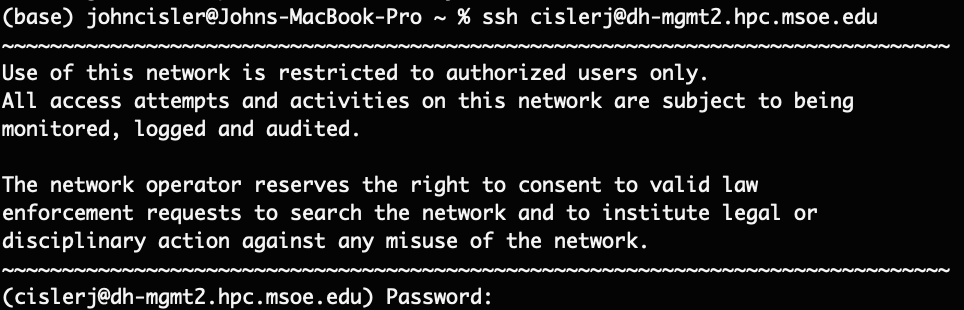
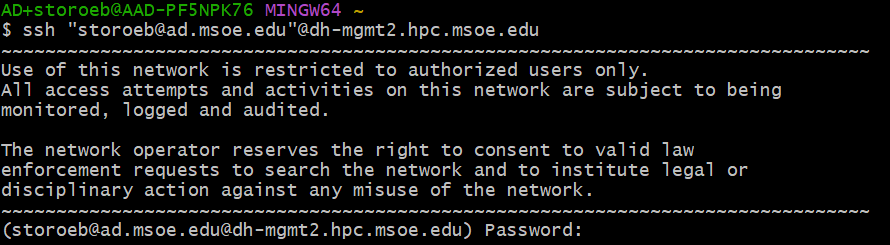
updating rosie articles

diff --git a/articles/Rosie/first-login/2-first-login.md b/articles/Rosie/first-login/2-first-login.md
@@ -50,10 +50,10 @@
 
 Logging into ROSIE for the first time is a bit of a pain and requires a few steps. This guide will walk you through the process of logging in for the first time and resetting your password.
 
-ROSIE can only be accessed through MSOE's campus network. If you are anywhere else, including the ITC, you need to use Global Protect, MSOE's VPN. This should come with your MSOE issued laptop, however if you would rather use a personal machine, you can install Global Protect [here](https://vpn.msoe.edu/global-protect/getsoftwarepage.esp). 
+ROSIE can only be accessed through MSOE's campus network. If you are anywhere else, including the ITC, you need to use Global Protect, MSOE's VPN. This should come with your MSOE issued laptop, however if you would rather use a personal machine, you can install Global Protect by reading [this](https://msoe-maic.com/library/?nav=Articles&article=global-protect) article.
 
 
-In order to log in to Rosie for the first time and reset your password, you must do so via SSH (Secure Shell)
+In order to log in to Rosie for the first time, you must do so via SSH (Secure Shell)
 SSH-ing to a computer cluster provides secure remote access, enabling efficient management, data analysis, and collaboration, crucial for scalable, high-performance computing and research in various fields.
 
 However, in order to use SSH, you will need an SSH client. Our tool of choice (that you'll later learn to use in-class as well) is Git.
@@ -76,9 +76,8 @@ In the following screens, accept all default selections
 
 Here's an overview of what we will be doing throughout the rest of the article:
 
-1. SSH into Rosie (ssh username@dh-mgmt2.hpc.msoe.edu)
-2. Enter the one time password that you recieved from Dr. Retert, then reenter this password
-3. Create a new password, then confirm this new password
+1. SSH into Rosie `ssh "username@ad.msoe.edu"@dh-mgmt2.hpc.msoe.edu`
+2. Enter your password.  
 
 ### 1. SSH Into ROSIE
 Once you have Git Bash open, type the following command, replacing username with your username (your email without the msoe.edu)
@@ -86,11 +85,11 @@ Look at the console entries next to the red stars *
 
 #### Using Git Bash (if on Windows)
 Open up the new program by typing git in your search bar, and clicking git bash. Then enter the following command, replacing username with your username (your email without the msoe.edu)
-'ssh username@dh-mgmt2.hpc.msoe.edu'
+`ssh "username@ad.msoe.edu"@dh-mgmt2.hpc.msoe.edu`
 
 #### Using Terminal (if on mac)
 Open up terminal if not already open and then enter the following command, replacing username with your username (your email without the msoe.edu)
-'ssh username@dh-mgmt2.hpc.msoe.edu'
+`ssh "username@ad.msoe.edu"@dh-mgmt2.hpc.msoe.edu`
 
 
 Regardless of your machine's OS, you should be shown something like the following, where you are prompted for your password: 
@@ -98,11 +97,8 @@ Regardless of your machine's OS, you should be shown something like the followin
 ![alt text](/images/article_content/ssh_1.png)
 
 
-### 2. Enter the One Time Password
-You should have recieved an email from Dr. Retert, our ROSIE admin, containing your one time password. It might have a subject along the lines of "Rosie Access Request." Enter this password into your terminal/git bash. As you're entering your password you will not see you password appear. That's OK, the characters will not appear due to security reasons, so please keep entering your password and hit enter when you're done. You will then be prompted to reenter your password, do so and hit enter again.
-
-### 3. Create a New Password & Confirm
-Perform the same steps as above, writing your new password instead. Again, you will not see your password appear as you type it in due to the security features on ROSIE. 
+### 2. Enter your password
+Rosie has switched to using your default msoe login. Enter this password into your terminal/git bash. As you're entering your password you will not see you password appear. That's OK, the characters will not appear due to security reasons, so please keep entering your password and hit enter when you're done.
 
 ## You're In!
 You should see the following screen! You're in! You can now use ROSIE!
@@ -110,11 +106,11 @@ You should see the following screen! You're in! You can now use ROSIE!
 ![alt text](/images/article_content/rosie_success.png)
 
 
-Once you see the message that it's creating directory 'home/username' followed by the big ROSIE, you're all set!
+Once you see the message that it's creating directory 'home/username@ad.msoe.edu' followed by the big ROSIE, you're all set!
 
 
 ## What To Do Moving Forward?
-Now, we aren't actually going to use this terminal interface to interact with ROSIE (that's gross 🤧); instead, we'll be using the online interface, using Jupyter Notebooks and starting up your own ROSIE instances. Find out more in the next article: Using The ROSIE Dev Page.
+Now, we aren't actually going to use this terminal interface to interact with ROSIE (that's gross 🤧); instead, we'll be using the online interface, using Jupyter Notebooks and starting up your own ROSIE instances. Find out more in the next article: [Using The ROSIE Dev Page](https://msoe-maic.com/library/?nav=Articles&article=3-rosie-web).
 
 
 

diff --git a/articles/Rosie/rosie-web/3-rosie-web.md b/articles/Rosie/rosie-web/3-rosie-web.md
@@ -60,16 +60,16 @@ You should see a page like this:
 Tab Overview
 From here, you will interact with ROSIE using the five tabs at the top of the screen, here's a breakdown of each:
 
-Files: This is how you both access your own files (Home Directory) and public files (Shared Data) on ROSIE. Whenever you create a new Jupyter notebook, it will go to your Home Directory by default; however, you do have the option of sharing it publicly. Types of files that are shared publicly include AI-Club workshops, class projects, AI-Club research projects, and more.
+**Files**: This is how you both access your own files (Home Directory) and public files (Shared Data) on ROSIE. Whenever you create a new Jupyter notebook, it will go to your Home Directory by default; however, you do have the option of sharing it publicly. Types of files that are shared publicly include AI-Club workshops, class projects, AI-Club research projects, and more.
 
-Jobs: This tab isn't used often by students, but it's where you can see the status of your jobs. If you're running a job, you can see the status of it here. If you're not running a job, you'll see a blank screen unless you view the status of all jobs. The Job Composer is used even less frequently -- do not use this screen unless you know what you are doing. This screen is NOT how you start up your own ROSIE instance for a Jupyter Notebook.
+**Jobs**: This tab isn't used often by students, but it's where you can see the status of your jobs. If you're running a job, you can see the status of it here. If you're not running a job, you'll see a blank screen unless you view the status of all jobs. The Job Composer is used even less frequently -- do not use this screen unless you know what you are doing. This screen is NOT how you start up your own ROSIE instance for a Jupyter Notebook.
 
-Interactive Apps: Lists the different kinds of apps that you can start an interactive session with ROSIE with. We'll talk about these more once we discuss Jupyter Notebooks & My Interactive Sessions.
+**Interactive Apps**: Lists the different kinds of apps that you can start an interactive session with ROSIE with. We'll talk about these more once we discuss Jupyter Notebooks & My Interactive Sessions.
 
-Clusters: Rosie Shell Access is an incredibly powerful and helpful tool. This is the command terminal you can use to move throughout all of ROSIE. You can use this to create new files, move files, delete files, and more. This is also where you can start up a job you made (using Slurm) without having to keep your laptop running for the job to continue going.
+**Clusters**: Rosie Shell Access is an incredibly powerful and helpful tool. This is the command terminal you can use to move throughout all of ROSIE. You can use this to create new files, move files, delete files, and more. This is also where you can start up a job you made (using Slurm) without having to keep your laptop running for the job to continue going.
 
 My Interactive Sessions: This is where you can start up your own ROSIE instance for a Jupyter Notebook. This is the most common way to use ROSIE, and we'll talk about this more in the next section.
 
 ## What's Next?
-If you're wanting to understand how you can immediately start coding and getting your projects to run on ROSIE, move onto Part 4: Starting Your First ROSIE Job.
+If you're wanting to understand how you can immediately start coding and getting your projects to run on ROSIE, move onto Part 4: [Starting Your First ROSIE Job](https://msoe-maic.com/library/?nav=Articles&article=4-first-rosie-job).
 

diff --git a/articles/Rosie/first-rosie-job/4-first-rosie-job.md b/articles/Rosie/first-rosie-job/4-first-rosie-job.md
@@ -54,11 +54,11 @@ To start a job, you should go to the My Interactive Sessions tab on the home-scr
 
 The section highlighted in blue is what we will be interacting with most of the time. The other sections are for more advanced users, and we will not be covering them in this article. However, here is a breakdown for the different types of Jupyter Notebooks:
 
-Jupyter Lab - Rosie: This will start a Jupyter LAB instance, not a Jupyter NOTEBOOK instance. Jupyter Lab is an integrated development environment (IDE) for interactive computing, offering a more versatile interface with tabs and extensions, while Jupyter Notebook provides a simpler, single-document interface for interactive code and data exploration. We use Jupyter Notebooks more frequently both in AI-Club and in industry, so we don't recommend this option.
+**Jupyter Lab - Rosie**: This will start a Jupyter LAB instance, not a Jupyter NOTEBOOK instance. Jupyter Lab is an integrated development environment (IDE) for interactive computing, offering a more versatile interface with tabs and extensions, while Jupyter Notebook provides a simpler, single-document interface for interactive code and data exploration. We use Jupyter Notebooks more frequently both in AI-Club and in industry, so we don't recommend this option.
 
-Jupyter Notebook - Containerized: This will start a Jupyter Notebook instance on one of the ROSIE teaching nodes. However, with this option, you have an additional dropdown for which container you would like to use with your ROSIE instance. A container is important because it comes with pre-installed packages that we will be commonly using throughout AI-Club. We recommend using this option.
+**Jupyter Notebook - Containerized**: This will start a Jupyter Notebook instance on one of the ROSIE teaching nodes. However, with this option, you have an additional dropdown for which container you would like to use with your ROSIE instance. A container is important because it comes with pre-installed packages that we will be commonly using throughout AI-Club. We recommend using this option.
 
-Jupyter Notebook - Rosie: Simply start up a Jupyter Notebook with your own packages on one of the ROSIE teaching nodes -- no container will be made and your Jupyter Notebook will be running directly on a ROSIE node. Use this option if you're having dependency issues.
+**Jupyter Notebook - Rosie**: Simply start up a Jupyter Notebook with your own packages on one of the ROSIE teaching nodes -- no container will be made and your Jupyter Notebook will be running directly on a ROSIE node. Use this option if you're having dependency issues.
 
 
 
@@ -124,7 +124,7 @@ However, we're talking about ROSIE Jupyter Notebooks, which have the exact-same 
 
 
 ## Running Command-Line Code in Jupyter Notebooks
-You can run command-line commands with ! before your code. For example, !ls will list all other files in the directory you put your Jupyter Notebook!
+You can run command-line commands with ! before your code. For example, `!ls` will list all other files in the directory you put your Jupyter Notebook!
 
 Another command is `!nvidia-smi`, which will list all the GPUs you currently have reserved for your current Jupyter Notebook. This is important because you can see if you have the correct number of GPUs reserved for your Jupyter Notebook. If you don't, you can go back to the ROSIE web portal and start a new Jupyter Notebook with the correct number of GPUs.
 

diff --git a/articles/Rosie/getting-rosie-access/1-getting-rosie-access.md b/articles/Rosie/getting-rosie-access/1-getting-rosie-access.md
@@ -61,30 +61,30 @@ Only those who have reason to use ROSIE can get access to its resources. As an M
 
 Towards the end of the form, there might be some questions that you might not know how to answer. Below are those questions and responses:
 
-Question 4: Please describe why you are requesting access to Rosie. In this description, please include why Rosie is needed beyond what your campus-issued laptop provides.
-Answer: AI-Club
+Question 4: `Please describe why you are requesting access to Rosie. In this description, please include why Rosie is needed beyond what your campus-issued laptop provides.`
+Answer: **AI-Club**
 
 
-Question 5: Please select all the tools you need to use for the request you are making.
-Answer: Select All Boxes (except for the last one)
+Question 5: `Please select all the tools you need to use for the request you are making.`
+Answer: **Select All Boxes (except for the last one)**
 
 
-Question 6: If you plan to use GPUs, please describe what acceleration libraries you need.
-Answer: tensorflow/keras
+Question 6: `If you plan to use GPUs, please describe what acceleration libraries you need.`
+Answer: **tensorflow/keras**
 
 
-Question 7: How much storage do you require (list MB, GB, TB)?
-Answer: 10GB
+Question 7: `How much storage do you require (list MB, GB, TB)?`
+Answer: **10GB**
 
 
-Question 8: Do you plan to use proprietary data with ROSIE?
-Answer: Leave blank (unless you have proprietary data)
+Question 8: `Do you plan to use proprietary data with ROSIE?`
+Answer: **Leave blank (unless you have proprietary data)**
 
 
 
-After requesting access you will likely get a response from Dr.Retert with instructions on logging in for the first time. If you are requesting access at the same time as many others, it might take a couple of days for a response. 
+After requesting access you will likely get a response from Dr. Retert with instructions on logging in for the first time. If you are requesting access at the same time as many others, it might take a couple of days for a response. 
 
 
 ## What's Next?
-Once you get his email, read the following article: First Log In
+Once you get his email, read the following article: [First Log In](https://msoe-maic.com/library/?nav=Articles&article=2-first-login)
 

diff --git a/articles/Rosie/rosie-terminal/5-rosie-terminal.md b/articles/Rosie/rosie-terminal/5-rosie-terminal.md
@@ -50,18 +50,18 @@
 ## Understanding How To Move Via Command Line
 There are a few conceptual commands you must know to even start interacting with this Linux-based terminal. Those commands are:
 
-cd - Change Directory
-ls - List files in current directory
-pwd - Print Working Directory
-mkdir - Make Directory
-touch - Create File
-rm - Remove File
+`cd` - Change Directory. 
+`ls` - List files in current directory. 
+`pwd` - Print Working Directory. 
+`mkdir` - Make Directory.
+`touch` - Create File. 
+`rm` - Remove File. 
 
 bash - Run a bash script
 
 python - Run a python script
 sbatch - Run a slurm script
-For example cd ../home/my_stuff will take you "up" one folder, then go into the home and my_stuff folder from that "up" (Parent) folder.
+For example `cd ../home/my_stuff` will take you "up" one folder, then go into the home and my_stuff folder from that "up" (Parent) folder.
 
 ## Useful SLURM Commands
 SLURM is the job scheduler that ROSIE uses to manage jobs. It is a very powerful tool that allows you to run jobs on ROSIE without having to keep your laptop running for the job to continue going. Here are some useful commands:
